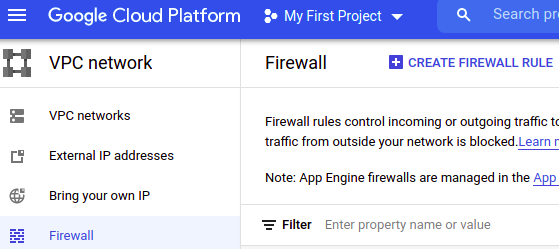
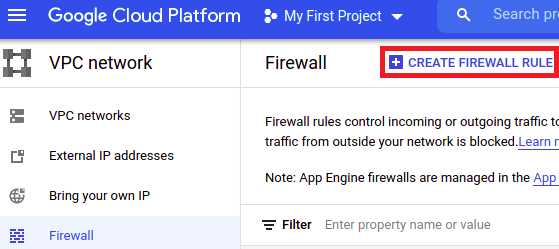
BESU - GCP guide & pictures updated

Changed region(s): [[0.6691, 0.1687, 1.0, 0.3373]]

diff --git a/besu/05_gcp_network.md b/besu/05_gcp_network.md
@@ -6,9 +6,12 @@ First of all, it is important to note that this network creation can be done in 
 - Using `gcloud` CLI
 - Through https://console.cloud.google.com/ UI
 
-No matter what approach you use. In both cases you will be working with **Compute Engine** service.
+No matter what approach you use, since in both cases you will be working with **Compute Engine** and **Firewall** services.
+
+In this guide, a private network of 3 nodes using Ethash will be created (further information about Ethash protocol [here](./consensus_protocols/01_ethash.md)).
 
 ### Installing `gcloud` CLI
+#### Debian/Ubuntu
 1. Add the Cloud SDK distribution URI as a package source:
 ```bash
 echo "deb [signed-by=/usr/share/keyrings/cloud.google.gpg] https://packages.cloud.google.com/apt cloud-sdk main" | sudo tee -a /etc/apt/sources.list.d/google-cloud-sdk.list
@@ -28,6 +31,11 @@ sudo apt-get update && sudo apt-get install google-cloud-sdk
     1. You will be asked to log in to continue. A new window of your default browser will be prompted to perform Google Cloud authentication.
     2. Then, pick a cloud project (or create a new one)to use.
     3. Finally, select a default Compute Region and Zone. As of May 2021, there is no region in Spain. However, a region will be created in Madrid in the next few years. In the meantime, I do recommend to use **europe-west1-b** (located in Belgium).
+
+#### Windows
+Download the [Cloud SDK installer](https://dl.google.com/dl/cloudsdk/channels/rapid/GoogleCloudSDKInstaller.exe), launch it and complete the process.
+
+NOTE: Cloud SDK requires Python. Supported versions are Python 3 (preferred, 3.5 to 3.8) and Python 2 (2.7.9 or higher).
 
 ### Adding a firewall rule for Besu API
 In order to communicate with Besu JSON-RPC API it is necessary to expose API port. To do that, Google Cloud provides firewall rules.
@@ -99,7 +107,7 @@ gcloud compute instances create besu-1 \
 ```
 
 ### Connecting to the newly created instance and preparing the network
-Through Google Cloud console UI:
+Through Google Cloud console UI, pressing **SSH** button:
 
 ![](./resources/GCP_02.png)
 
@@ -155,7 +163,7 @@ gcloud beta compute instances create besu-3 \
 ```
 
 ### Running Besu nodes
-In order to ease Besu execution, create a script named `start.sh` on each machine:
+Connect again to VM instances (through UI or `gcloud` command). In order to ease Besu execution, create a script named `start.sh` on each machine:
 - besu-1
 ```bash
 #!/bin/bash
@@ -178,7 +186,8 @@ besu --data-path=besu_data --genesis-file=ethashGenesis.json \
 
 To grant execution permission: `chmod +x start.sh`
 
-### Checking network correct funcionamiento
+### Checking network correct functioning
+To verify Besu nodes are working, execute this command outside the Besu network (For instance, in your local machine):
 ```bash
 curl -X POST --data '{"jsonrpc":"2.0","method":"net_peerCount","params":[],"id":1}' \
     <besu-1-ip-address>:8545
